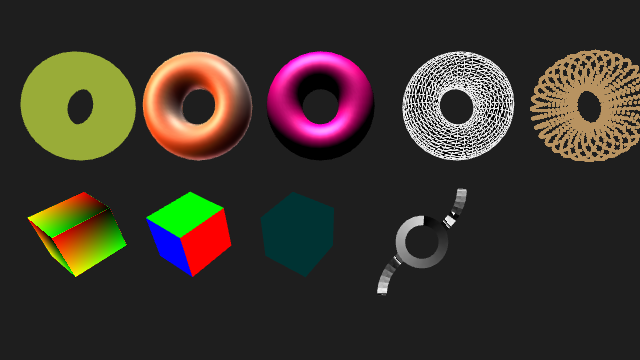
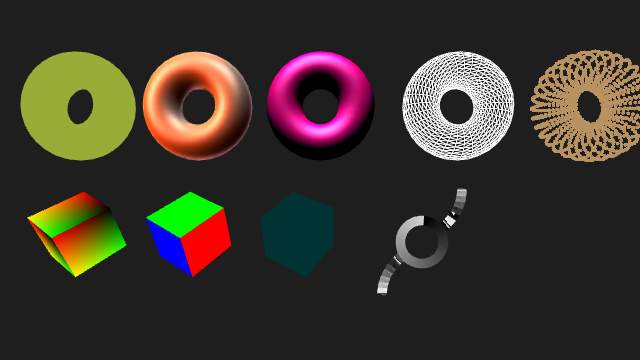
render geom vertexnumbers

Changed region(s): [[0.625, 0.1528, 0.8125, 0.4583]]

diff --git a/src/ops/base/Ops.Gl.RenderGeometry_v2/Ops.Gl.RenderGeometry_v2.js b/src/ops/base/Ops.Gl.RenderGeometry_v2/Ops.Gl.RenderGeometry_v2.js
@@ -1,24 +1,32 @@
 const
     render = op.inTrigger("render"),
     geometry = op.inObject("Geometry", null, "geometry"),
+
+    inVertNums = op.inBool("Add Vertex Numbers", true),
     inActive = op.inBool("Render", true),
     trigger = op.outTrigger("trigger");
 
 op.toWorkPortsNeedToBeLinked(geometry, render);
 
 geometry.ignoreValueSerialize = true;
-geometry.onChange = update;
 
 let mesh = null;
+let needsUpdate = true;
+
+geometry.onLinkChanged =
+inVertNums.onChange =
+    geometry.onChange = () => { needsUpdate = true; };
 
 render.onTriggered = function ()
 {
+    if (needsUpdate) update();
     if (mesh && inActive.get()) mesh.render(op.patch.cgl.getShader());
     trigger.trigger();
 };
 
 function update()
 {
+    needsUpdate = false;
     const geom = geometry.get();
     if (geom && geom.isGeometry)
     {
@@ -30,6 +38,7 @@ function update()
         if (!mesh)
         {
             mesh = new CGL.Mesh(op.patch.cgl, geom);
+            mesh.addVertexNumbers = inVertNums.get();
             mesh.setGeom(geom);
         }
     }
